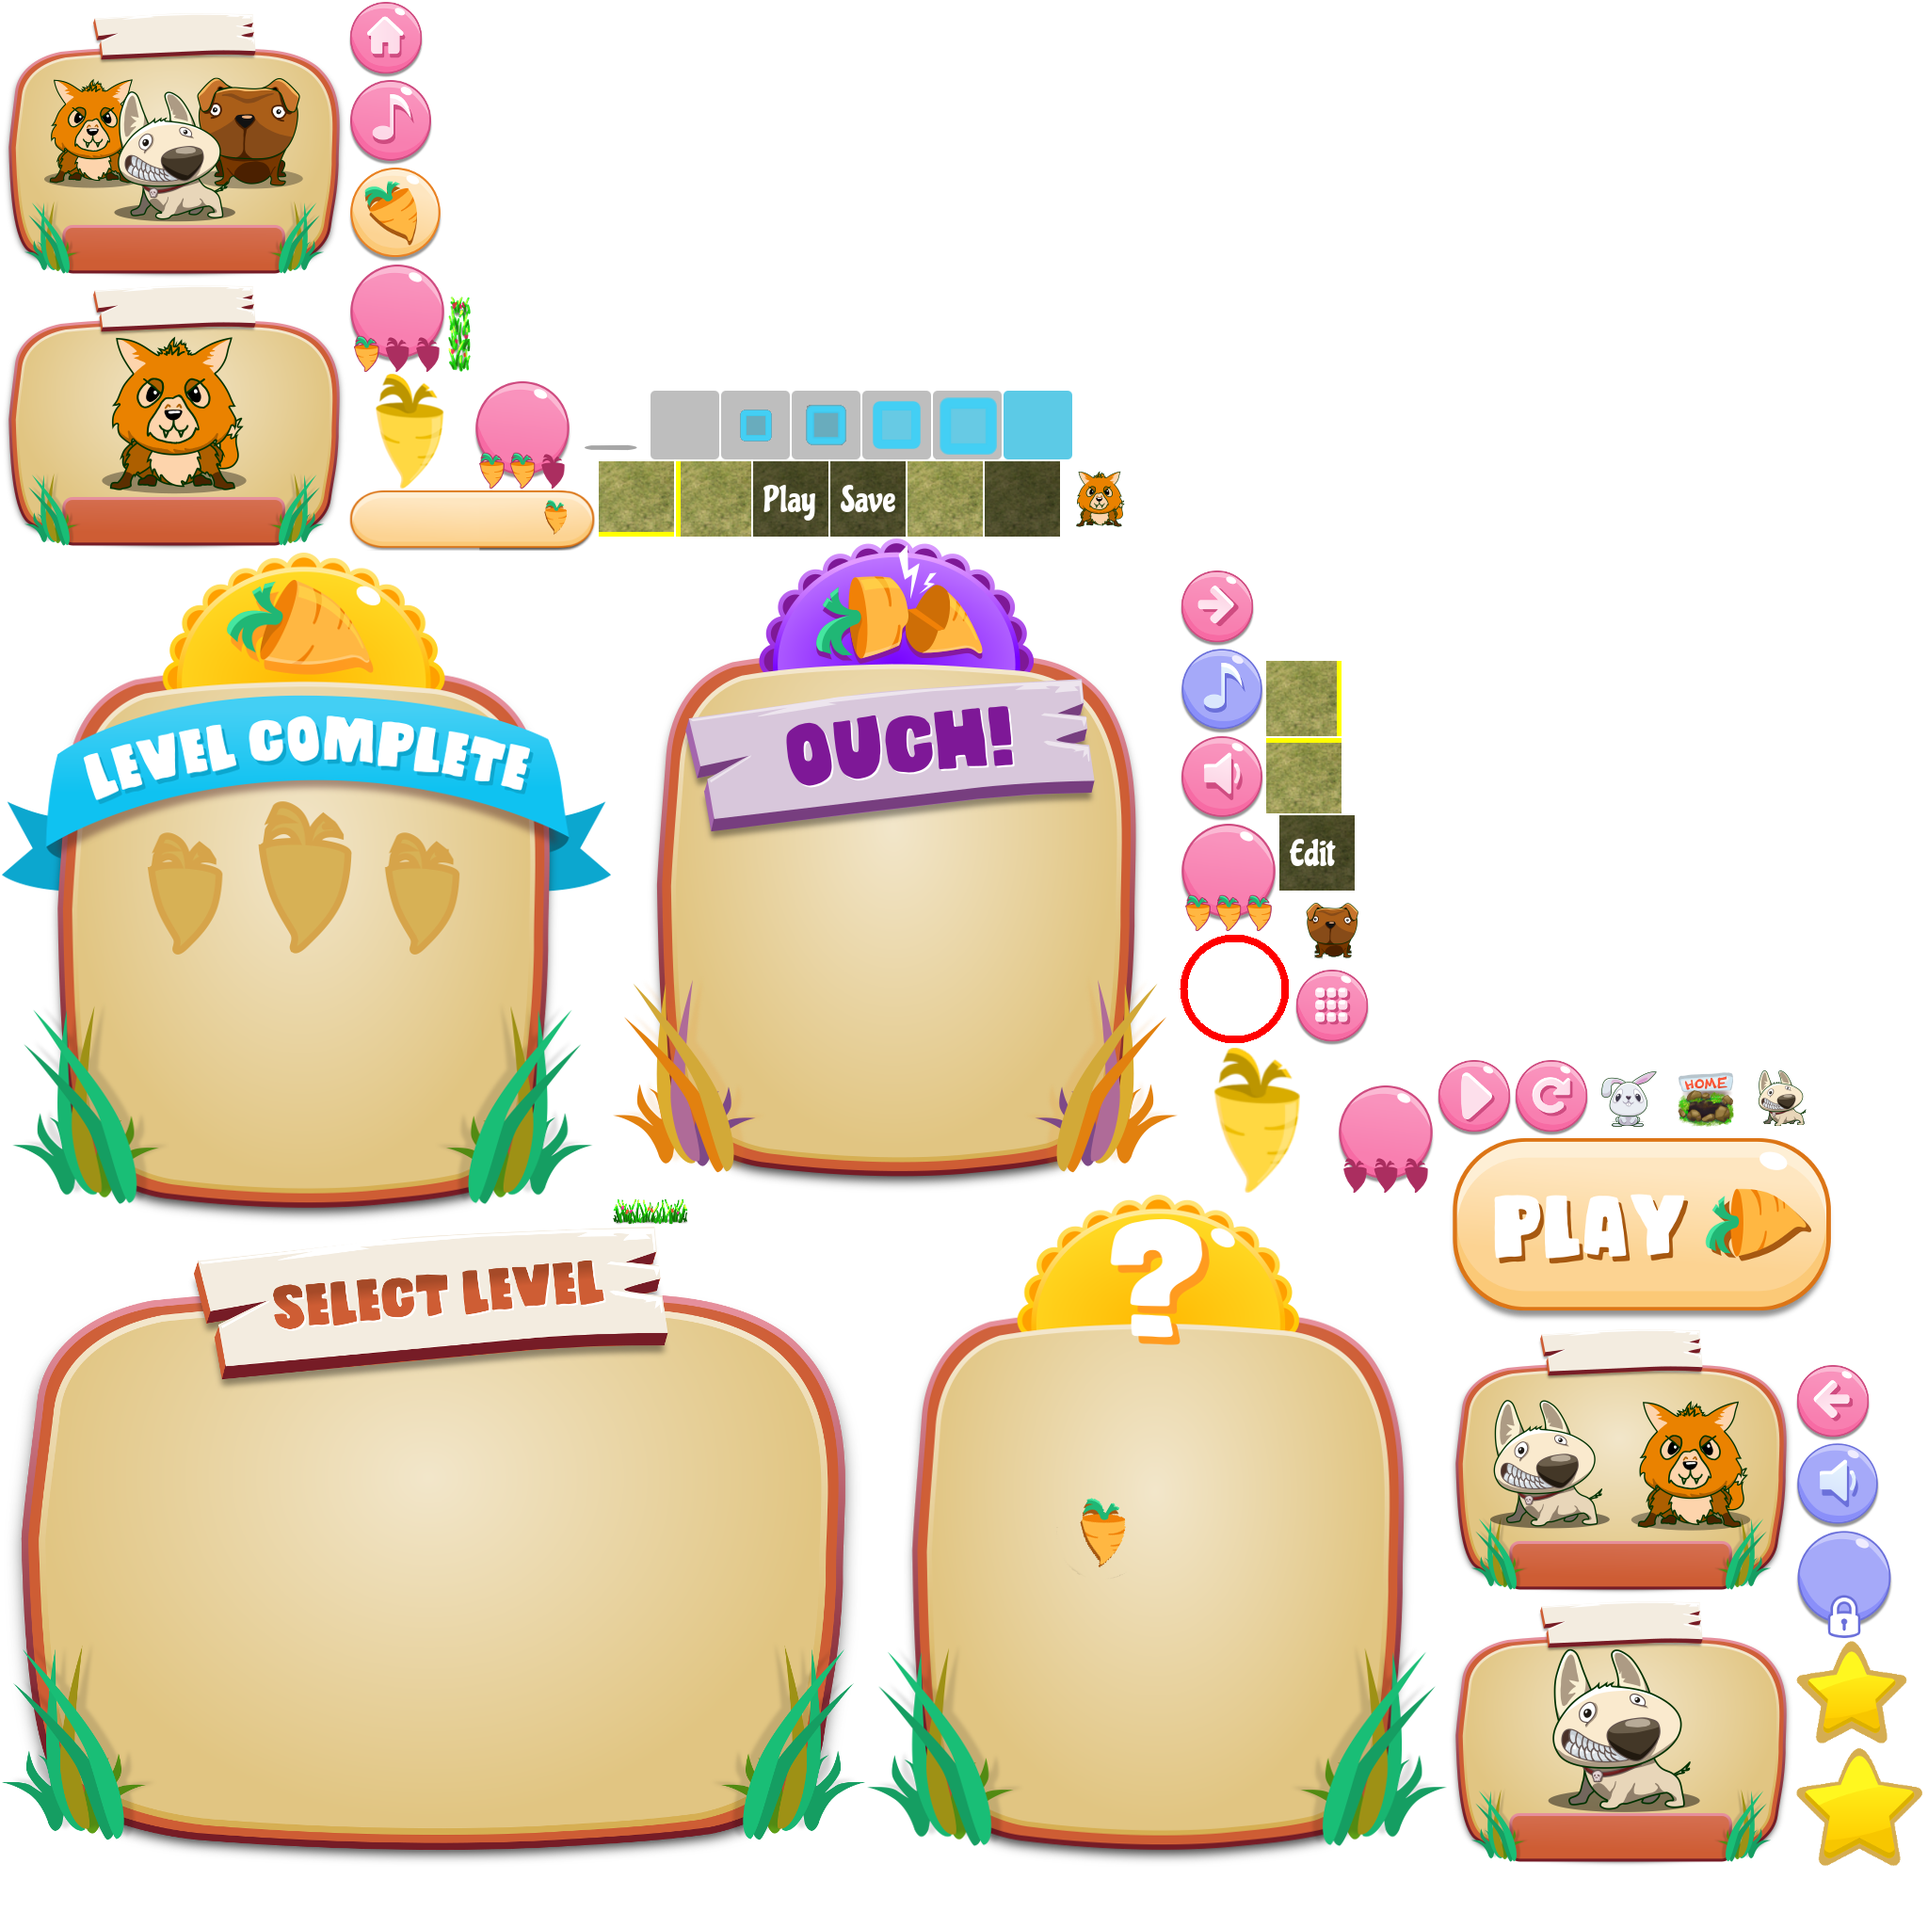
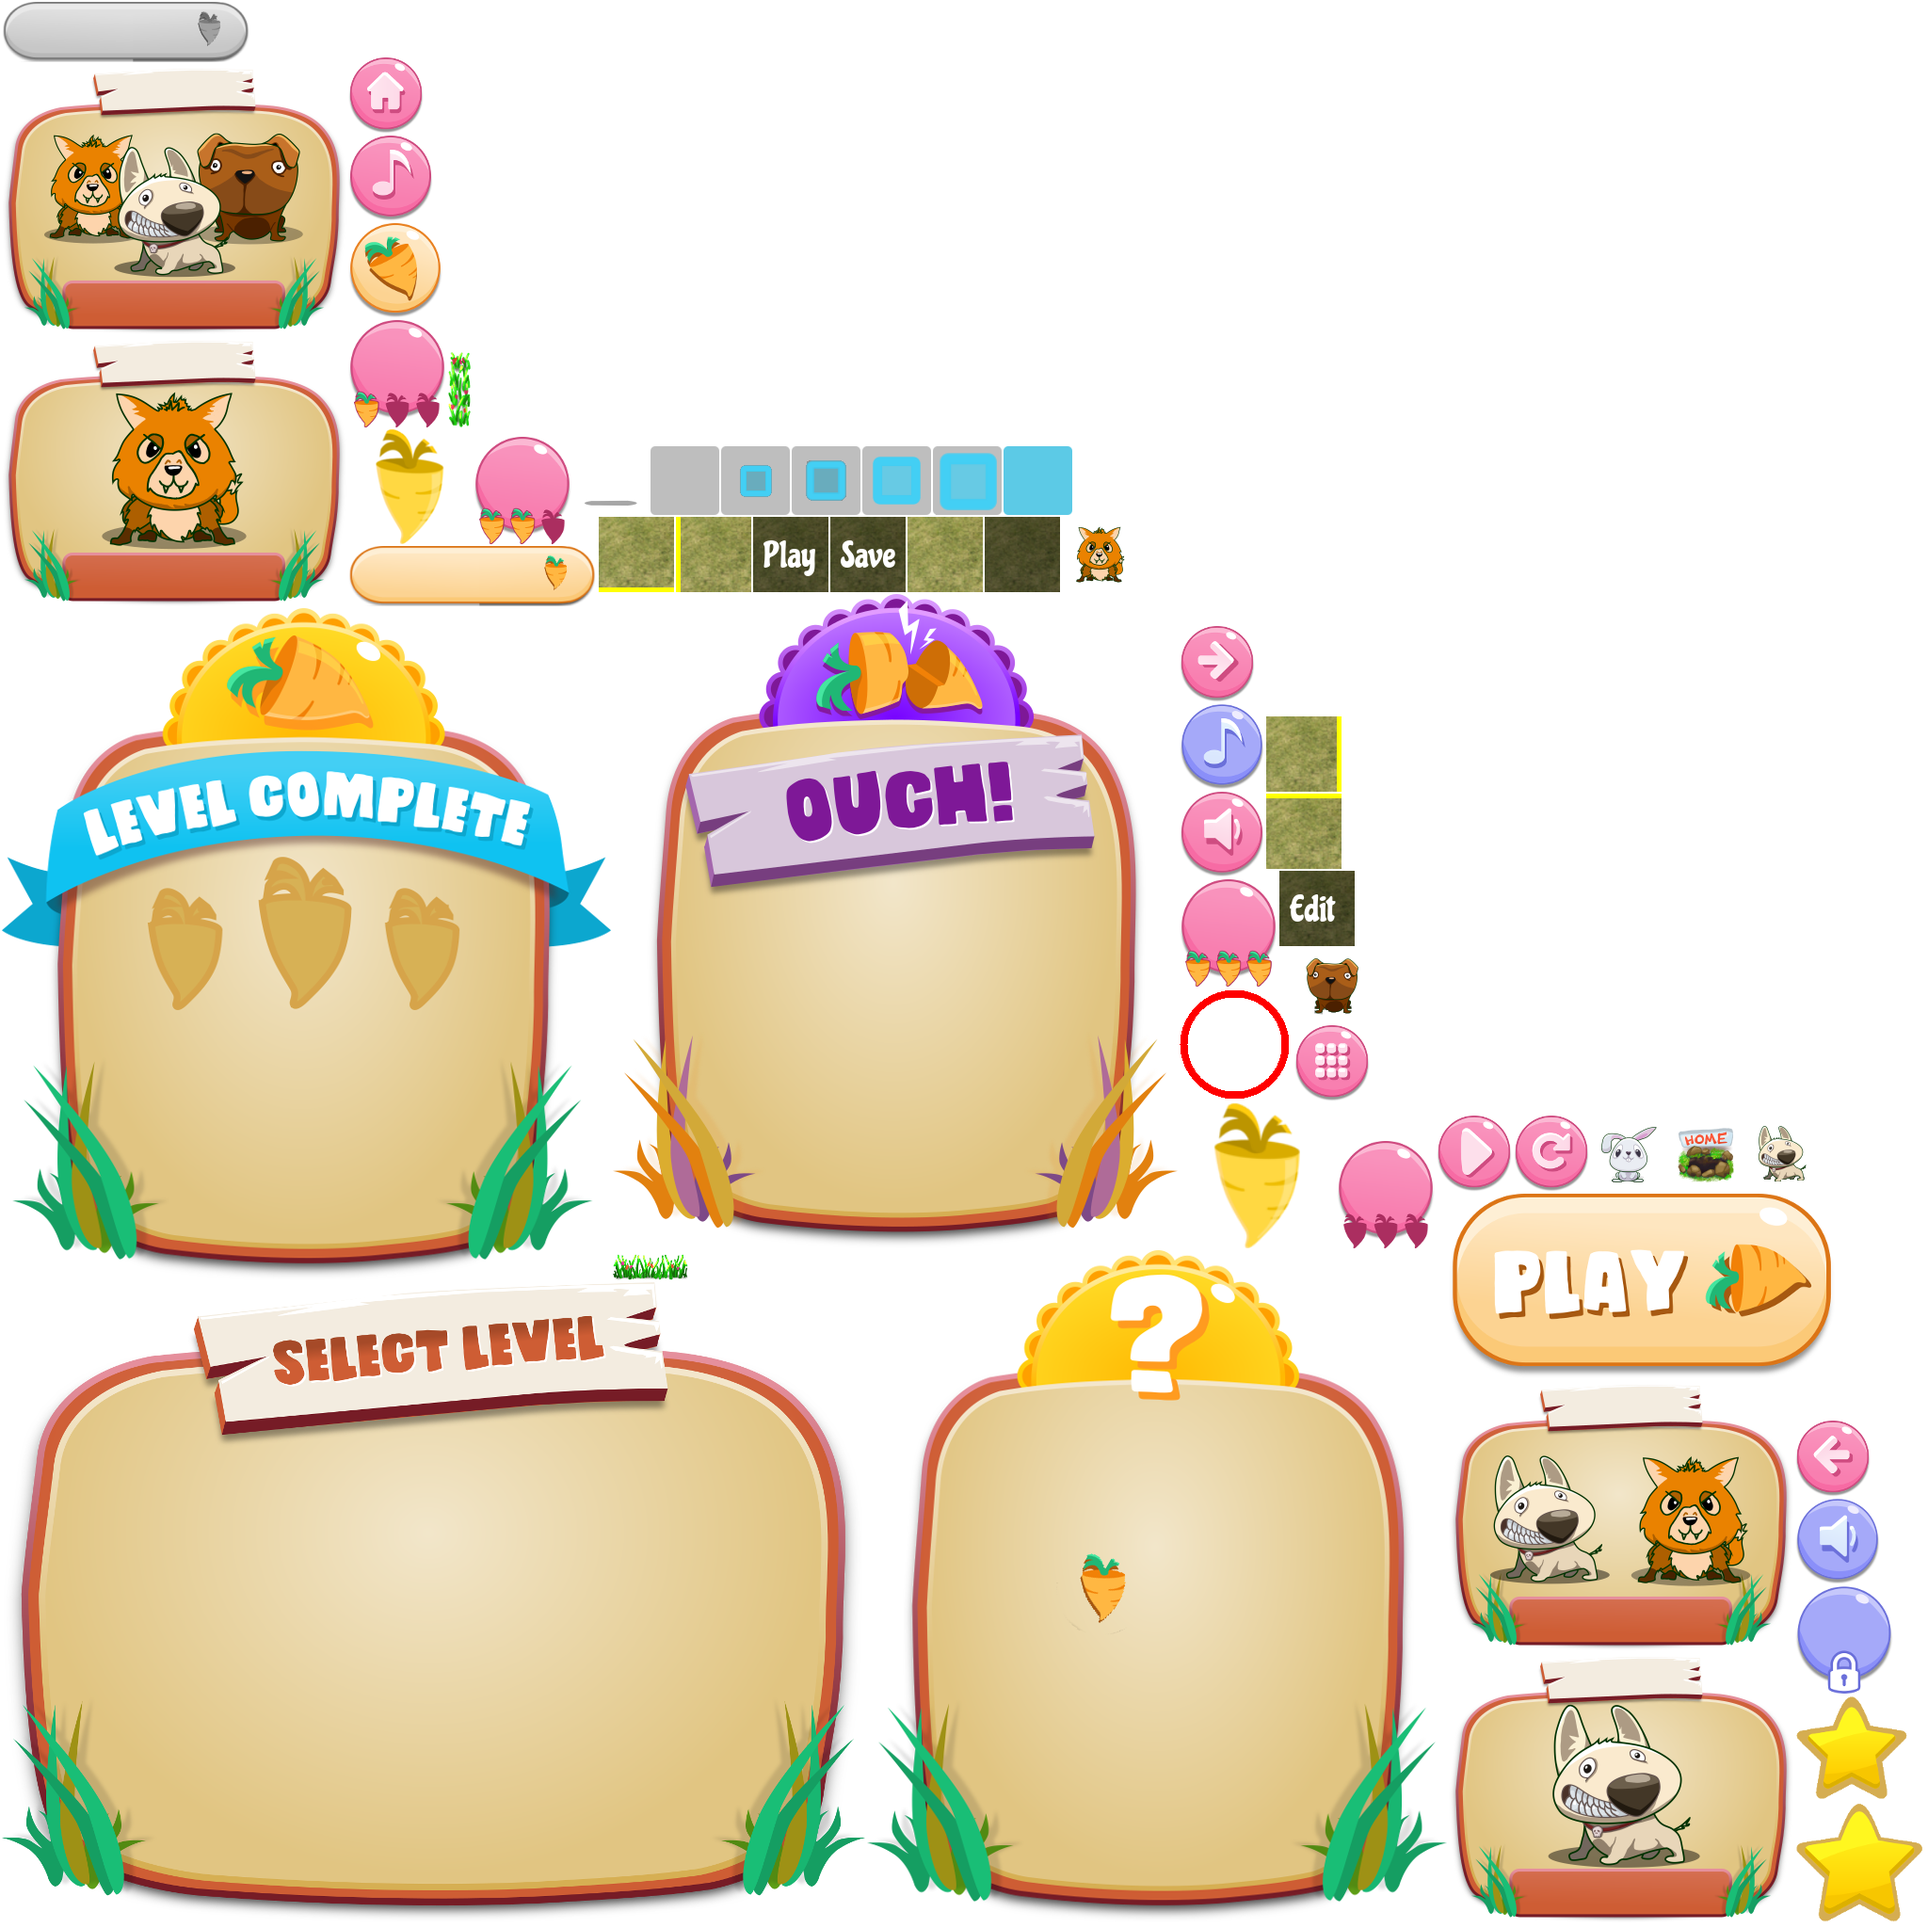
Disabled buy hint button

diff --git a/core/src/es/seastorm/merlin/screens/labyrint/help/BuyHintButton.java b/core/src/es/seastorm/merlin/screens/labyrint/help/BuyHintButton.java
@@ -1,6 +1,7 @@
 package es.seastorm.merlin.screens.labyrint.help;
 
 import com.badlogic.gdx.graphics.g2d.SpriteBatch;
+import com.badlogic.gdx.graphics.g2d.TextureRegion;
 
 import dragongames.base.gameobject.SimpleGameObject;
 import es.seastorm.merlin.MerlinGame;
@@ -8,9 +9,20 @@ import es.seastorm.merlin.assets.GameAssets;
 import es.seastorm.merlin.cache.Cache;
 
 public class BuyHintButton extends SimpleGameObject {
+    public static final TextureRegion disabledRegion = GameAssets.instance.getTextureRegion(GameAssets.ASSET_BTN_BUY_HINT_DISABLED);
+    public static final TextureRegion enabledRegion = GameAssets.instance.getTextureRegion(GameAssets.ASSET_BTN_BUY_HINT);
 
     public BuyHintButton() {
-        super(GameAssets.instance.getTextureRegion(GameAssets.ASSET_BTN_BUY_HINT));
+        super(enabledRegion);
+        this.reg = enabledRegion;
+    }
+
+    public void enable(boolean e) {
+        if (e) {
+            this.reg = enabledRegion;
+        } else {
+            this.reg = disabledRegion;
+        }
     }
 
 

diff --git a/core/src/es/seastorm/merlin/screens/labyrint/LabyrintScreenController.java b/core/src/es/seastorm/merlin/screens/labyrint/LabyrintScreenController.java
@@ -969,6 +969,7 @@ public class LabyrintScreenController extends Controller {
                                 megahit = 0;
                                 ((MerlinGame) game).setTreasure(100);
                                 levelInfo.setText("100");
+                                btnBuyHint.enable(true);
 
                             }
                         }
@@ -1002,6 +1003,7 @@ public class LabyrintScreenController extends Controller {
         Cache.backgroundBlack.visible = true;
         levelInfo.setText(Integer.toString(treasure));
         levelInfo.visible = true;
+        btnBuyHint.enable(treasure >= 3);
         btnBuyHint.visible = true;
         megahit = 0;
     }

diff --git a/core/src/es/seastorm/merlin/assets/GameAssets.java b/core/src/es/seastorm/merlin/assets/GameAssets.java
@@ -57,6 +57,7 @@ public class GameAssets extends AssetsKeeper {
     public static final String SQUARE_GLOW5 = "square_glow5";
     public static final String ASSET_BTN_HINT = "btn_hint";
     public static final String ASSET_BTN_BUY_HINT = "btn_buy_hint";
+    public static final String ASSET_BTN_BUY_HINT_DISABLED = "btn_buy_hint_disabled";
 
 
     public static final GameAssets instance = new GameAssets();
